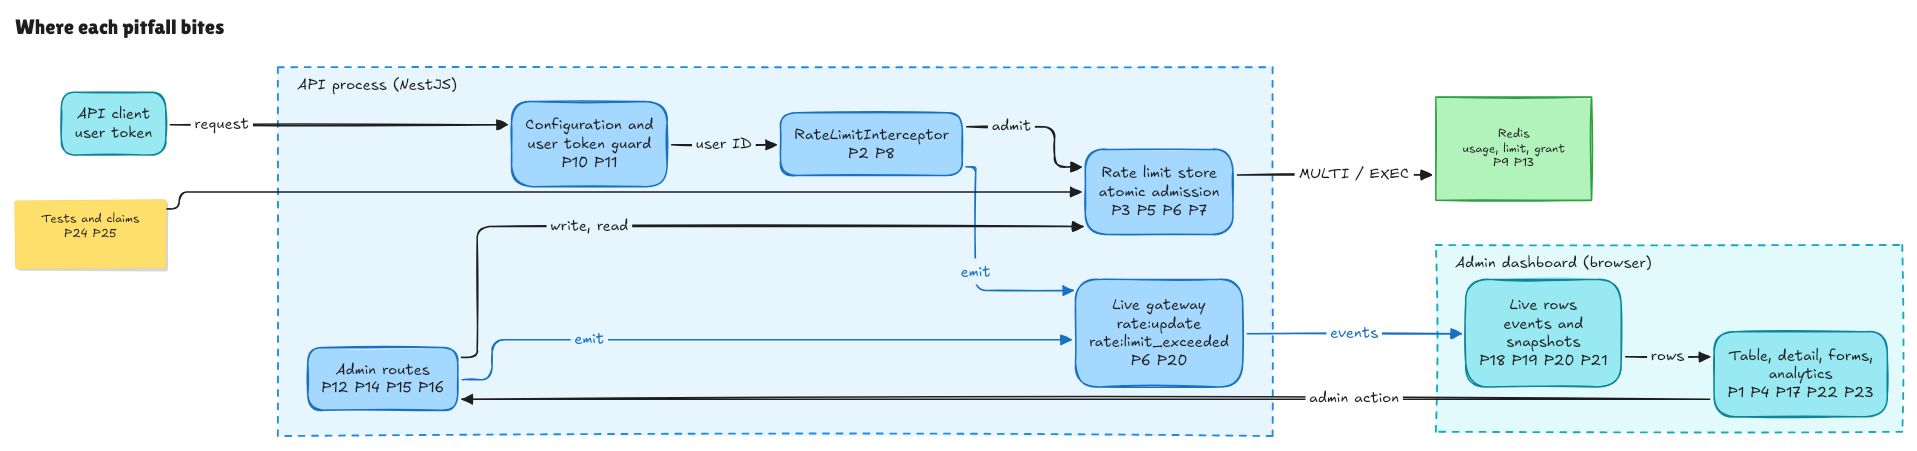
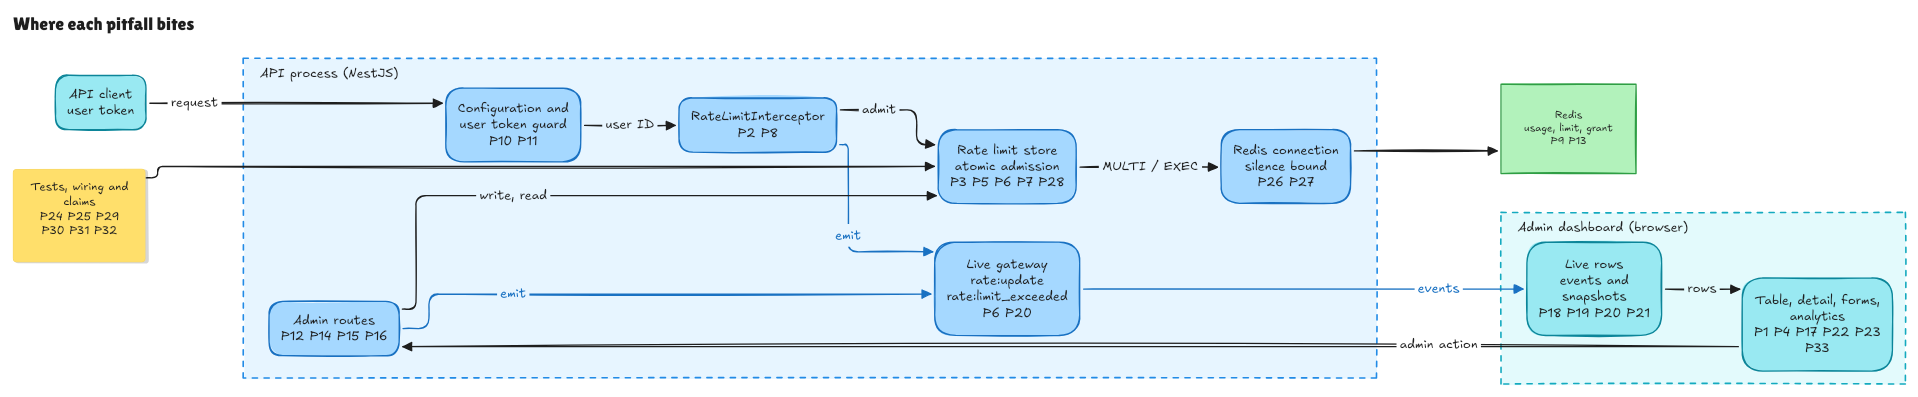
Pitfalls met during implementation and review (P26–P33), and the audit against all 33 (#12)
* Add the pitfalls met during implementation and review
* Place P26 to P33 on the pitfall map
* Record the audit against the pitfalls and the counts after its two fixes

Changed region(s): [[0.1231, 0.5139, 1.0, 0.9673], [0.0, 0.1209, 0.8618, 0.665], [0.0, 0.0302, 0.1231, 0.0907]]

diff --git a/docs/VERIFICATION.md b/docs/VERIFICATION.md
@@ -6,15 +6,15 @@ results only. A check that is not listed here was not run.
 
 ## Revision and environment
 
-|              |                                                                                                                                                  |
-| ------------ | ------------------------------------------------------------------------------------------------------------------------------------------------ |
-| Revision     | Tree `6c0cf6ef3ab2a196f1099a594fa1229774af135a`, which is `main` at commit `8581c61` (pull request #16). Later commits change documentation only |
-| Date         | 2026-11-17                                                                                                                                       |
-| Machine      | One laptop: Apple M3 Pro, 18 GB memory, macOS 26.2                                                                                               |
-| Node.js, npm | 26.5.0, 11.17.0                                                                                                                                  |
-| Docker       | 29.8.2                                                                                                                                           |
-| Redis        | 8.10.3 (`redis:8-alpine`), one instance in Docker, used by nothing else during the runs                                                          |
-| Browser      | Chromium 151.0.7922.34 driven by Playwright, headless, 1440 by 900 pixels                                                                        |
+|              |                                                                                                                                                                                                                                                                                                                                                                                                                                                               |
+| ------------ | ------------------------------------------------------------------------------------------------------------------------------------------------------------------------------------------------------------------------------------------------------------------------------------------------------------------------------------------------------------------------------------------------------------------------------------------------------------- |
+| Revision     | Tree `ca53c5b800efeffb5527152b8313ad09e7baf5f3`, which is `main` at commit `bf206fb` (pull request #20), for the first six commands below. The population check, the Compose start, the pause timing and the browser pass are from tree `6c0cf6ef3ab2a196f1099a594fa1229774af135a`, `main` at `8581c61` (pull request #16); since then the application source changed in two files, `apps/web/src/live/liveSession.ts` and `apps/api/src/users/seed-users.ts` |
+| Date         | 2026-11-17                                                                                                                                                                                                                                                                                                                                                                                                                                                    |
+| Machine      | One laptop: Apple M3 Pro, 18 GB memory, macOS 26.2                                                                                                                                                                                                                                                                                                                                                                                                            |
+| Node.js, npm | 26.5.0, 11.17.0                                                                                                                                                                                                                                                                                                                                                                                                                                               |
+| Docker       | 29.8.2                                                                                                                                                                                                                                                                                                                                                                                                                                                        |
+| Redis        | 8.10.3 (`redis:8-alpine`), one instance in Docker, used by nothing else during the runs                                                                                                                                                                                                                                                                                                                                                                       |
+| Browser      | Chromium 151.0.7922.34 driven by Playwright, headless, 1440 by 900 pixels                                                                                                                                                                                                                                                                                                                                                                                     |
 
 ## Automated checks
 
@@ -23,19 +23,19 @@ after `npm ci`, run one after another on a Redis server of their own. That
 server listened on another free port than the README's 6380; nothing else
 differed.
 
-| Command                            | What it runs                                                                                                                                                                                           | Result                                                                                                               |
-| ---------------------------------- | ------------------------------------------------------------------------------------------------------------------------------------------------------------------------------------------------------ | -------------------------------------------------------------------------------------------------------------------- |
-| `npm run build`                    | The API and the dashboard build, each compiling the shared contract types it imports                                                                                                                   | Exit 0 in 7.0 s. Vite warns that the dashboard's JavaScript file is 966 kB (289 kB gzipped), above its 500 kB notice |
-| `npm run lint`                     | Type-aware lint of the API (explicit `any` is an error) and the dashboard                                                                                                                              | Exit 0 in 4.7 s, nothing reported                                                                                    |
-| `npm test`                         | API: unit tests with the store mocked, controller tests over HTTP and Redis-client tests against a local TCP peer. Dashboard: component and hook tests in jsdom with a mocked socket. No Redis server. | Exit 0 in 23.8 s. API: 293 tests in 16 files passed. Dashboard: 126 tests in 14 files passed                         |
-| `npm run check:contracts`          | The fixture data against the dashboard's own shape checks                                                                                                                                              | Exit 0, `fixtures consistent: 134 checks passed`                                                                     |
-| `npm run test:integration`         | The built application over HTTP and Socket.IO against a real Redis                                                                                                                                     | Five runs in a row, each exit 0: 72 tests in 14 files passed, none skipped, in 31.6 to 34.3 s                        |
-| `npm run check:two-process`        | Two API processes on one Redis: one quota, events and alerts relayed to each other's dashboards                                                                                                        | Three runs, each exit 0 in 3.9 to 4.7 s, with the output below and no API log line at error or warning level         |
-| `npm run check:population`         | One API with 1000 and then 10000 registered users: list, filter and analytics reads                                                                                                                    | Three runs, each exit 0 in 9.7 to 10.4 s; figures under [Reads by number of users](#reads-by-number-of-users)        |
-| `docker compose up --build --wait` | The image and Compose: both containers healthy                                                                                                                                                         | Exit 0 in 17.5 s, both services healthy; the application runs as the user `node`                                     |
+| Command                            | What it runs                                                                                                                                                                                           | Result                                                                                                                                                            |
+| ---------------------------------- | ------------------------------------------------------------------------------------------------------------------------------------------------------------------------------------------------------ | ----------------------------------------------------------------------------------------------------------------------------------------------------------------- |
+| `npm run build`                    | The API and the dashboard build, each compiling the shared contract types it imports                                                                                                                   | Exit 0 in 7.0 s. Vite warns that the dashboard's JavaScript file is 966 kB (289 kB gzipped), above its 500 kB notice                                              |
+| `npm run lint`                     | Type-aware lint of the API (explicit `any` is an error) and the dashboard                                                                                                                              | Exit 0 in 4.4 s, nothing reported                                                                                                                                 |
+| `npm test`                         | API: unit tests with the store mocked, controller tests over HTTP and Redis-client tests against a local TCP peer. Dashboard: component and hook tests in jsdom with a mocked socket. No Redis server. | Exit 0 in 25.7 s. API: 295 tests in 16 files passed. Dashboard: 127 tests in 14 files passed                                                                      |
+| `npm run check:contracts`          | The fixture data against the dashboard's own shape checks                                                                                                                                              | Exit 0, `fixtures consistent: 134 checks passed`                                                                                                                  |
+| `npm run test:integration`         | The built application over HTTP and Socket.IO against a real Redis                                                                                                                                     | Five runs in a row, each exit 0: 74 tests in 14 files passed, none skipped, in 29.8 to 30.7 s                                                                     |
+| `npm run check:two-process`        | Two API processes on one Redis: one quota, events and alerts relayed to each other's dashboards                                                                                                        | Three runs, each exit 0 in 3.9 to 4.0 s, with the output below and no API log line at error or warning level; 30 more runs in a row on the same tree, each exit 0 |
+| `npm run check:population`         | One API with 1000 and then 10000 registered users: list, filter and analytics reads                                                                                                                    | Three runs, each exit 0 in 9.7 to 10.4 s; figures under [Reads by number of users](#reads-by-number-of-users)                                                     |
+| `docker compose up --build --wait` | The image and Compose: both containers healthy                                                                                                                                                         | Exit 0 in 17.5 s, both services healthy; the application runs as the user `node`                                                                                  |
 
 The integration runner prints totals and not one line per test. That a case
-named below passed is concluded from 72 of 72 tests passing in every run with
+named below passed is concluded from 74 of 74 tests passing in every run with
 none skipped.
 
 Every line `npm run check:two-process` printed, apart from the API processes'
@@ -201,6 +201,38 @@ Files are named without their directory: `*.spec.ts` under `apps/api/src`, `*.e2
 | Expectation: security                                                          | `config.spec.ts`, `user-token.guard.spec.ts`, `admin.controller.spec.ts` (T); `admin-http.e2e-spec.ts`, `registry.e2e-spec.ts`, `live-events.e2e-spec.ts` (I)                             | Demo tokens, no TLS                                                                 |
 | Expectation: maintainability                                                   | The shared contract package, lint, `npm run check:contracts`, the coding rules                                                                                                            | A judgement for the reviewer                                                        |
 | Expectation: ready for production                                              | Not shown                                                                                                                                                                                 | Demo credentials, one Redis without failover, no TLS, no load test                  |
+
+## Pitfalls
+
+Each item of [the pitfalls](PITFALLS.md) was checked against the code at
+`cddeba2`: its guard was found, the fault was looked for, and where a small
+edit could remove the guard, the edit was made and the item's check was run.
+None of the 33 faults was found. Two defects that the list did not name were
+found and fixed:
+
+- The dashboard dropped a `rate:limit_exceeded` alert when a snapshot holding
+  the same version of the row arrived before the event (pull request #19).
+  It was reproduced in the dashboard's tests, not against a running API.
+- Two API processes started together on an empty Redis could each refuse the
+  `DEMO_USERS` the other had just registered, and one stopped.
+  `npm run check:two-process` failed 5 times in 30 before the fix and 0 times
+  in 30 after it (pull request #20). The three passing runs recorded earlier
+  were too few to show it.
+
+Eight checks passed with their guard removed (P8, P9, P16, P18, P21, P25, P26
+and P28). Pull request #19 added an assertion to each, and each was seen to
+fail without the guard.
+
+What the checks do not show:
+
+- P5: only the mocked-store test notices an expiry set outside the
+  transaction.
+- P7: the latency case notices a lock held 50 ms for each request, not one
+  held 10 ms.
+- P22: two checks drop a late 401, and each hides the removal of the other.
+- P31 and P32 are rules for people; nothing automated enforces them.
+- P33: no automated check of contrast. Measured once by hand in Chromium, the
+  status badges had ratios of 6.39 to 11.28 against a minimum of 4.5.
 
 ## Not verified
 

diff --git a/docs/PITFALLS.md b/docs/PITFALLS.md
@@ -1,8 +1,10 @@
 # Pitfalls
 
 Ways a flawed implementation of a per-user rate limiter with a live
-administration dashboard goes wrong. They were collected before the design
-was written and are read before any part of it is designed or changed.
+administration dashboard goes wrong. P1 to P25 were collected before the
+design was written; P26 onwards were added as faults of these kinds came up
+during implementation and review. All are read before any part of the system
+is designed or changed.
 
 An item is listed only when it concerns something this repository builds.
 Each one names the fault, the rule that prevents it here and a check planned
@@ -16,8 +18,8 @@ specification that owns the topic; where it rests on a reading of an
 ambiguous requirement, that reading is marked as an interpretation there,
 not here. The **Check** line gives a short example of a case and where it
 runs. The specification's test plan holds the full list, and
-`VERIFICATION.md` records what was run and with what result. Both are linked
-from here as they are written.
+[`VERIFICATION.md`](VERIFICATION.md#pitfalls) records what was run and with
+what result.
 
 The first rule covers every item: where the brief is clear it is
 implemented as written, and where it is ambiguous the chosen reading is
@@ -464,3 +466,136 @@ supply the time.
 before, at and one millisecond after, with the time supplied by the test.
 Unit test: a clock that moves on after the decision does not change the time
 at which its outcome is recorded.
+
+## Store failures
+
+### P26. A store that accepts the connection and never answers
+
+A refused connection fails at once and is easy to handle. A flawed
+implementation handles only that case. A connect timeout bounds the TCP
+connection, not the replies, so a store that accepts and then stays silent
+leaves startup pending and every request waiting, with no error raised.
+
+**Guard:** the API does not listen until the store has answered, and a
+connection silent for longer than a fixed bound is closed, at startup and
+afterwards. The bound is on silence, not on total time: a peer that trickles
+an unfinished reply can keep startup pending longer, and the specification
+says so.
+**Check:** unit test: a peer that accepts and never answers fails startup
+within seconds. Real store: requests to a frozen server answer 503 within a
+bound, and the API serves again when the server does, without a restart.
+
+### P27. Measuring silence with the wall clock
+
+```ts
+const silentFor = Date.now() - lastReplyAt // jumps when the system clock is set
+if (silentFor > SILENCE_LIMIT_MS) client.destroy() // a healthy connection is dropped
+```
+
+A flawed watchdog measures silence with the wall clock. When the system
+clock is set forward it sees minutes of silence and drops a healthy
+connection; set back, it misses a real one.
+
+**Guard:** elapsed time is measured on a monotonic clock. The wall clock is
+used only where a calendar time is meant, such as the hour of a window.
+**Check:** unit test: the wall clock jumps forward while replies keep
+arriving, and the connection is kept.
+
+### P28. A broken key reported as an outage
+
+```ts
+try {
+  return await transaction.exec()
+} catch (cause) {
+  throw new StoreUnavailable(cause) // a WRONGTYPE reply says "retry later", for ever
+}
+```
+
+A flawed transaction wrapper turns every rejection into "store unavailable".
+The store's own error reply, such as a command run on a key of the wrong
+type, then reaches the client as a 503 that invites a retry, although every
+retry fails the same way. This is P8 one layer lower: the catch is narrow,
+but what it catches is not.
+
+**Guard:** in the quota and admin store calls, an error reply from Redis is
+a defect: it is logged and becomes a 500. A connection known to be down, or
+any other rejection while a command runs, becomes a 503.
+**Check:** mocked store: an error reply inside the transaction gives 500,
+and a lost connection gives 503. Real store: a key of the wrong type on the
+admission path gives 500.
+
+## Wiring, checks and claims
+
+### P29. A part tested on its own and never wired in
+
+A flawed implementation unit-tests an exception filter, a guard or a
+Socket.IO adapter in isolation, and the test passes while the application
+never registers it. The same blindness affects a verification script: a
+two-process check that still passes with the cross-process wiring removed
+shows nothing about that wiring.
+
+**Guard:** a registration is exercised through the assembled application,
+and a check that claims to prove some wiring must fail when that wiring is
+removed.
+**Check:** an error raised in a route reaches the client in the filter's
+envelope; with the adapter not registered, the two-process check reports a
+missing event at one of the dashboards.
+
+### P30. Test files the compiler never sees
+
+The build excludes test files and the test runner strips types without
+checking them. A flawed setup therefore accepts a test that uses an API the
+target does not provide, or a fixture of the wrong shape, while build, lint
+and tests all pass.
+
+**Guard:** every test file is type-checked by a documented command: the
+API's test command checks its tests before running them, and the
+dashboard's build checks its tests together with its sources.
+**Check:** a test that uses an API newer than the compile target fails one
+of those commands, not only an editor.
+
+### P31. Removing tests judged redundant by reading them
+
+A test that looks covered by another, for example "the guard is shared, so
+one route is enough", is often the only one that fails for a realistic
+defect: a route that accepts the wrong kind of token, or a limit that the
+admission step ignores. A flawed clean-up removes such tests on the strength
+of reading, and a mutation tool that reports nothing lost does not show
+otherwise.
+
+**Guard:** a test is removed only when a remaining test fails for the same
+realistic defect, shown by writing that defect into the code. "The guard is
+shared" alone keeps one case per route or action.
+**Check:** for each removed case, the defect it was written for is
+introduced once and the remaining suite fails.
+
+### P32. A document that claims more than the code does
+
+A flawed submission describes the system it intends to have. Typical
+sentences: "a rejection consumes no quota" when it holds only if the
+rejection's cleanup succeeds; "one transaction per request" when admission
+and its bookkeeping are two; "several processes share one limit" with no
+check that runs two; "an alert is sent once per window" when admin actions
+re-arm it.
+
+**Guard:** a sentence in a README, a specification or a diagram describes
+the code at the same commit, in present tense only once it exists, and
+states the condition under which it holds. A planned part is labelled
+planned.
+**Check:** at each point of the
+[requirements check](README.md#requirements-check), every claim the change
+touches is read against the code and the checks of that commit.
+
+### P33. A status that only its colour can tell
+
+The status column is read at a glance, often from its colour alone. A
+flawed implementation keeps a component library's default text colour on
+coloured badges, which leaves white text on light fills well below a
+readable contrast.
+
+**Guard:** filled badges and buttons choose black or white text by the
+fill's luminance at the point where both give the same contrast, so every
+fill exceeds 4.5:1, and the status is also written as a word.
+**Check:** in a real browser, the rendered colours of each status badge,
+the connection state and dimmed text are measured, not the theme's values.
+No automated test does this; it is done by hand and recorded.

diff --git a/README.md b/README.md
@@ -204,9 +204,9 @@ The last full run, on one laptop, at the revision the record names:
 
 | Check                                             | Result                                                                                                                                                                  |
 | ------------------------------------------------- | ----------------------------------------------------------------------------------------------------------------------------------------------------------------------- |
-| `npm test`                                        | 293 API tests in 16 files and 126 dashboard tests in 14 files passed                                                                                                    |
+| `npm test`                                        | 295 API tests in 16 files and 127 dashboard tests in 14 files passed                                                                                                    |
 | `npm run check:contracts`                         | 134 fixture checks passed                                                                                                                                               |
-| `npm run test:integration`                        | 72 tests in 14 files passed against a real Redis, five runs in a row                                                                                                    |
+| `npm run test:integration`                        | 74 tests in 14 files passed against a real Redis, five runs in a row                                                                                                    |
 | `npm run check:two-process`                       | 200 requests at once for one user over two API processes: 100 admitted, 100 rejected, 0 other; three runs                                                               |
 | `npm run check:population`                        | The list page, a filtered page and the analytics timed at 1000 and 10000 registered users; three runs                                                                   |
 | `docker compose up --build --wait`, then Chromium | Both containers healthy. Of 14 browser items, 12 passed; the hidden tab was not checked, and the console held one unexplained WebSocket warning after a refused sign-in |
@@ -216,7 +216,7 @@ xychart-beta
     title "Tests passed, by suite"
     x-axis ["API", "Dashboard", "Integration"]
     y-axis "Tests" 0 --> 300
-    bar [293, 126, 72]
+    bar [295, 127, 74]
 ```
 
 ```mermaid
